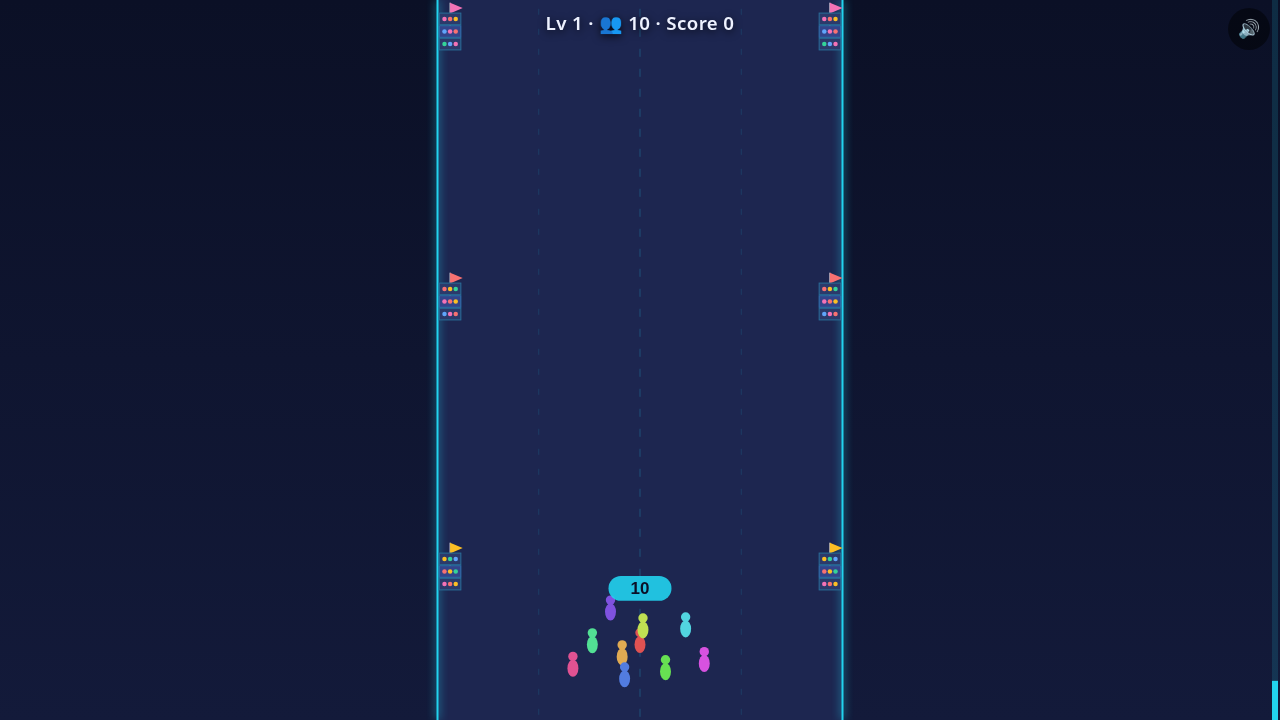
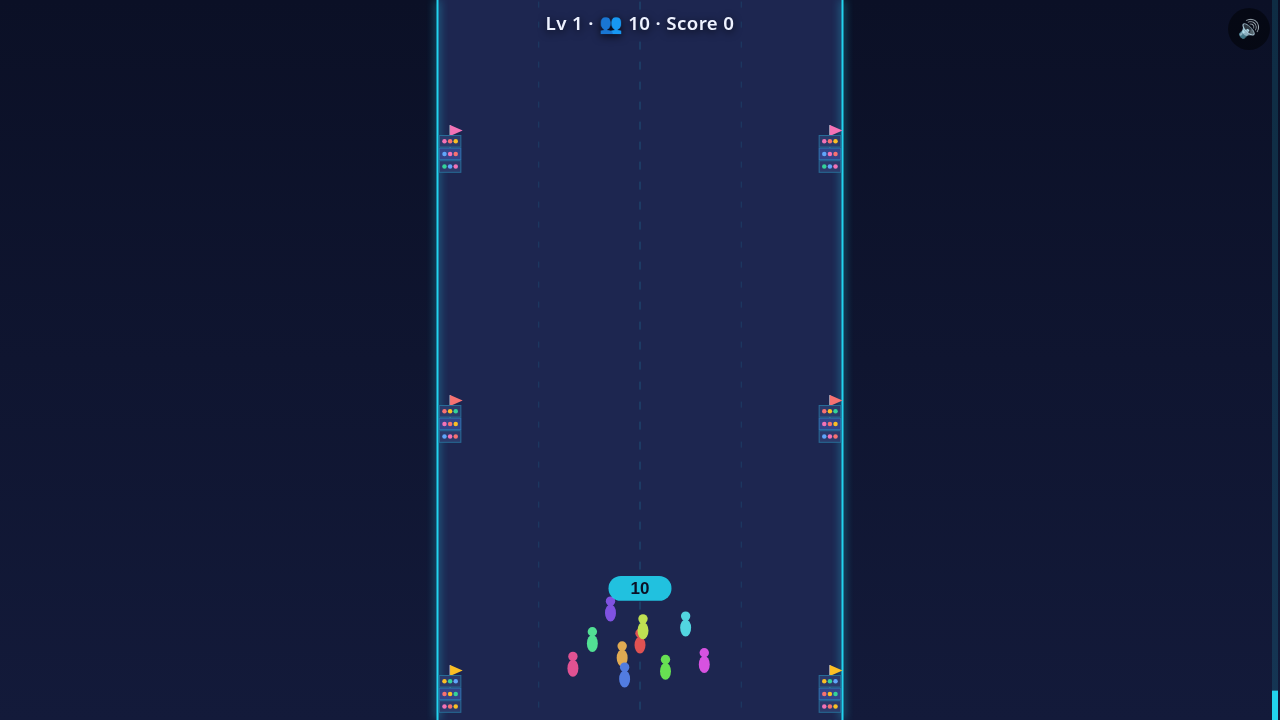
Clash presentation: bigger enemy crowd, impact shake/numbers, hit-stop
- Enemy crowd up to 60 figures at 1.35x size in two ranks, red glow + dashed arena ring, larger count badge
- Clash start: glowing CLASH! banner (1.4s) with low horn and shake jolt; each clash hit: screen shake, ~110ms hit-stop, floating damage numbers, particle bursts; pulsing red vignette during clash
- client.js only; logic.js untouched. Gates: validate PASS, simulate ref WIN tick 570 / idle LOSS 583 / always-left LOSS 472, playtest 0 console errors, 4/4 self-tests PASS, phase win

diff --git a/client.js b/client.js
@@ -32,6 +32,11 @@ let bgmTick = 0;
 let lastEventId = 0;
 let particles = [];
 let popups = [];
+let shake = 0;
+let hitStopUntil = 0;
+let clashBannerUntil = 0;
+let prevClashEnemy = 0;
+let prevClashCrowd = 0;
 let stars = 0;
 let unlocked = 1;
 let starsMap = {};
@@ -73,6 +78,11 @@ function initGame(level) {
   lastEventId = 0;
   particles = [];
   popups = [];
+  shake = 0;
+  hitStopUntil = 0;
+  clashBannerUntil = 0;
+  prevClashEnemy = 0;
+  prevClashCrowd = 0;
   bgmTick = 0;
   heldDx = 0;
   pointerActive = false;
@@ -349,9 +359,29 @@ function handleEvent(ev) {
     spawnParticles(ev.x, ev.z, '#fbbf24', 10);
   } else if (ev.kind === 'clashHit') {
     playClashHit();
+    const dmg = Math.max(0, prevClashEnemy - ev.enemyLeft);
+    const lost = Math.max(0, prevClashCrowd - ev.crowd);
+    prevClashEnemy = ev.enemyLeft;
+    prevClashCrowd = ev.crowd;
+    shake = 9;
+    hitStopUntil = performance.now() + 110;
+    if (dmg > 0) popups.push({ x: W / 2, z: 1.1, text: '-' + dmg, color: '#f87171', life: 45 });
+    if (lost > 0) {
+      const px = (state.players && state.players[state.selfId]) ? state.players[state.selfId].x : W / 2;
+      popups.push({ x: px, z: CROWD_Z - 2.2, text: '-' + lost, color: '#fb923c', life: 45 });
+    }
+    spawnParticles(W / 2, 2.2, '#f87171', 12);
+    const cx = (state.players && state.players[state.selfId]) ? state.players[state.selfId].x : W / 2;
+    spawnParticles(cx, CROWD_Z, '#22d3ee', 6);
   } else if (ev.kind === 'clashStart') {
     state.clashStartCrowd = state.crowd;
     state.clashStartEnemy = ev.enemy;
+    prevClashEnemy = ev.enemy;
+    prevClashCrowd = state.crowd;
+    clashBannerUntil = performance.now() + 1400;
+    shake = 6;
+    playTone(220, 'sawtooth', 0.35, 0.07, 110);
+    playNoise(0.2, 0.05, 0);
   } else if (ev.kind === 'idle') {
     state.lossReason = 'idle';
   } else if (ev.kind === 'loss') {
@@ -403,6 +433,9 @@ function render() {
   ctx2d.fillRect(0, 0, cw, ch);
 
   if (!state) return;
+
+  ctx2d.save();
+  if (shake > 0) ctx2d.translate((Math.random() - 0.5) * shake, (Math.random() - 0.5) * shake);
 
   const scale = Math.min(cw / W, ch / H);
   const ox = (cw - W * scale) / 2;
@@ -501,6 +534,35 @@ function render() {
     ctx2d.fillText(p.text, sx(p.x), sy(p.z));
   }
   ctx2d.globalAlpha = 1;
+
+  if (state.clash) {
+    const alpha = 0.10 + 0.06 * Math.sin(state.clashTicks * 0.5);
+    ctx2d.fillStyle = `rgba(239,68,68,${alpha})`;
+    ctx2d.fillRect(0, 0, cw, 14);
+    ctx2d.fillRect(0, ch - 14, cw, 14);
+    ctx2d.fillRect(0, 0, 14, ch);
+    ctx2d.fillRect(cw - 14, 0, 14, ch);
+  }
+  if (performance.now() < clashBannerUntil) {
+    const bw = cw * 0.7;
+    const bh = 64;
+    const bx = cw / 2 - bw / 2;
+    const by = ch * 0.28 - bh / 2;
+    ctx2d.save();
+    ctx2d.shadowBlur = 24;
+    ctx2d.shadowColor = '#ef4444';
+    ctx2d.fillStyle = 'rgba(5,8,20,0.8)';
+    roundRect(ctx2d, bx, by, bw, bh, bh / 2);
+    ctx2d.fill();
+    ctx2d.restore();
+    ctx2d.fillStyle = '#f87171';
+    ctx2d.font = 'bold 34px sans-serif';
+    ctx2d.textAlign = 'center';
+    ctx2d.textBaseline = 'middle';
+    ctx2d.fillText('⚔ CLASH!', cw / 2, ch * 0.28);
+    ctx2d.textBaseline = 'alphabetic';
+  }
+  ctx2d.restore();
 
   // HUD
   hud.textContent = `Lv ${state.level + 1} · 👥 ${state.crowd} · Score ${state.score}`;
@@ -693,28 +755,59 @@ function drawSideStands(dist, sx, sy, scale) {
 }
 
 function drawEnemyCrowd(clash, sx, sy, scale) {
-  const count = Math.min(30, Math.ceil(clash.enemyLeft / 20));
+  const count = Math.min(60, Math.ceil(clash.enemyLeft / 12));
   const baseX = W / 2;
   const baseZ = 2.2;
+
+  // Soft red glow behind formation
+  ctx2d.fillStyle = 'rgba(248,113,113,0.18)';
+  ctx2d.beginPath();
+  ctx2d.ellipse(sx(baseX), sy(baseZ), 2.2 * scale, 1.1 * scale, 0, 0, Math.PI * 2);
+  ctx2d.fill();
+
+  // Dashed arena ring
+  ctx2d.strokeStyle = 'rgba(248,113,113,0.6)';
+  ctx2d.lineWidth = 2;
+  ctx2d.setLineDash([8, 6]);
+  ctx2d.beginPath();
+  ctx2d.ellipse(sx(baseX), sy(baseZ), 2.4 * scale, 1.2 * scale, 0, 0, Math.PI * 2);
+  ctx2d.stroke();
+  ctx2d.setLineDash([]);
+
+  const frontCount = Math.ceil(count * 0.6);
   for (let i = 0; i < count; i++) {
-    const angle = (i / count) * Math.PI * 2;
-    const r = 0.8 + (i % 3) * 0.3;
-    const ex = baseX + Math.cos(angle) * r;
-    const ez = baseZ + Math.sin(angle) * r * 0.5;
-    drawFigure(sx(ex), sy(ez), scale, '#f87171', i);
+    let ex, ez, color;
+    if (i < frontCount) {
+      const t = frontCount > 1 ? i / (frontCount - 1) : 0.5;
+      const angle = (t - 0.5) * Math.PI;
+      ex = baseX + Math.sin(angle) * 1.5;
+      ez = baseZ + Math.cos(angle) * 0.5;
+      color = '#f87171';
+    } else {
+      const j = i - frontCount;
+      const backCount = count - frontCount;
+      const t = backCount > 1 ? j / (backCount - 1) : 0.5;
+      const angle = (t - 0.5) * Math.PI;
+      ex = baseX + Math.sin(angle) * 2.1;
+      ez = baseZ - 0.9 + Math.cos(angle) * 0.5;
+      color = '#ef4444';
+    }
+    ex = Math.max(0.4, Math.min(W - 0.4, ex));
+    drawFigure(sx(ex), sy(ez), scale, color, i, 1.35);
   }
+
   // Count badge
   ctx2d.fillStyle = 'rgba(248,113,113,0.9)';
-  const bw = scale * 1.2;
-  const bh = scale * 0.5;
+  const bw = scale * 1.7;
+  const bh = scale * 0.62;
   const bx = sx(baseX) - bw / 2;
-  const by = sy(baseZ - 1.2);
+  const by = sy(baseZ - 1.6);
   roundRect(ctx2d, bx, by, bw, bh, bh / 2);
   ctx2d.fill();
   ctx2d.fillStyle = '#fff';
-  ctx2d.font = `bold ${Math.floor(scale * 0.35)}px sans-serif`;
+  ctx2d.font = `bold ${Math.floor(scale * 0.42)}px sans-serif`;
   ctx2d.textAlign = 'center';
-  ctx2d.fillText(String(clash.enemyLeft), sx(baseX), by + bh * 0.7);
+  ctx2d.fillText(String(clash.enemyLeft), sx(baseX), by + bh * 0.72);
 }
 
 function drawPlayerCrowd(state, sx, sy, scale) {
@@ -790,15 +883,20 @@ function loop(time) {
   }
 
   if (running && state) {
-    tickAccum += dt;
-    const stepMs = 1000 / L.meta.tickRate;
-    let steps = 0;
-    while (tickAccum >= stepMs && steps < 5) {
-      tickAccum -= stepMs;
-      step();
-      steps++;
+    if (performance.now() < hitStopUntil) {
+      tickAccum = 0;
+    } else {
+      tickAccum += dt;
+      const stepMs = 1000 / L.meta.tickRate;
+      let steps = 0;
+      while (tickAccum >= stepMs && steps < 5) {
+        tickAccum -= stepMs;
+        step();
+        steps++;
+      }
     }
   }
+  if (shake > 0.3) shake *= 0.82; else shake = 0;
 
   // Update particles/popups
   for (let i = particles.length - 1; i >= 0; i--) {

diff --git a/design/verification.md b/design/verification.md
@@ -26,7 +26,7 @@ All gates run against the shipped files on 2026-11-26 (OpenGame MCP, headless Ch
 - assets/cover.png 1280×720, game-canvas only: crowd of 25 under a +5/+8 gate, HUD visible.
 
 ## Known gaps (P2)
-- Visual density is v1-minimal: runners are small and the track is sparse between gates. Planned polish: larger runner glyphs, wider crowd spread, taller glowing gate panels, side-stand decorations, clash close-up framing.
+- Visual density, gate/track richness and clash presentation are now polished (runs 2–4). Remaining planned polish: difficulty tuning from simulate margins, richer SFX layering, levels 11–12.
 - Human play-feel (steering weight, gate readability at full speed) is judged from playtest frames; simulation proves rules and balance only.
 - Audio is synthesized WebAudio; headless playtest cannot prove how it sounds.
 
@@ -46,3 +46,10 @@ All gates run against the shipped files on 2026-11-26 (OpenGame MCP, headless Ch
 - Server gates: validate PASS (no diagnostics) · simulate reference WIN tick 570 [player-1] · idle LOSS tick 583 · always-left LOSS tick 472 · playtest 0 console errors, 0 failed requests, all 4 self-tests PASS, phase reached win. Contact sheet verified visually: taller glowing gates with readable pill labels (+15/+3, -30/×2), side stands with flags/dots on both edges, lane dividers visible, no broken frames.
 - Cover recaptured: early-run frame shows the crowd of 10, the new side stands (flags + spectator dots) and lane dividers; headless capture runs slower than real time so no gate is in frame yet. Note: this run's cover click on #start reported "Node is either not clickable or not an Element" but the game still started (phase playing, crowd 10) and the screenshot saved fine.
 - Remaining polish: clash framing, difficulty tuning, sound layering, levels 11–12.
+
+
+## 2026-11-27 ~01:50 IST — clash presentation: bigger enemy crowd, impact shake/numbers, hit-stop (run 4)
+- Change (client.js only, logic.js untouched): enemy crowd redrawn bigger — up to 60 figures (was 30) at 1.35× size in two ranks (front/back arcs), red glow ellipse + dashed arena ring, larger count badge. On clashStart a glowing "⚔ CLASH!" banner shows for 1.4 s with a low horn and a shake jolt. On every clashHit: screen shake (magnitude 9, decaying), ~110 ms hit-stop freeze of the game loop, floating "-N" damage numbers over the enemy and over the player's crowd, red/gold particle bursts. Pulsing red vignette frames the screen while the clash runs. Draw functions generated via River DeepSeek (gen.py) and spliced into gen-client.js; no logic/balance changes.
+- Local harness: ALL PASS (pilot wins all 10 levels, idle loss tick 583, always-left loss tick 472, deterministic, referenceRoute win).
+- Server gates: validate PASS (no diagnostics) · simulate reference WIN tick 570 [player-1] · idle LOSS tick 583 · always-left LOSS tick 472 · playtest 0 console errors, 0 failed requests, all 4 self-tests PASS, phase reached win (tick 572, crowd 46). Playtest authoritative state confirms clashStart + clashHit events fired (clashTicks 5, enemyLeft 0).
+- Cover recaptured: early-run frame (crowd of 10, side stands + lane dividers visible). Note: cover #start click again reported "Node is either not clickable or not an Element" but the game still started and the screenshot saved (same flaky timing as run 3, not a code issue).
